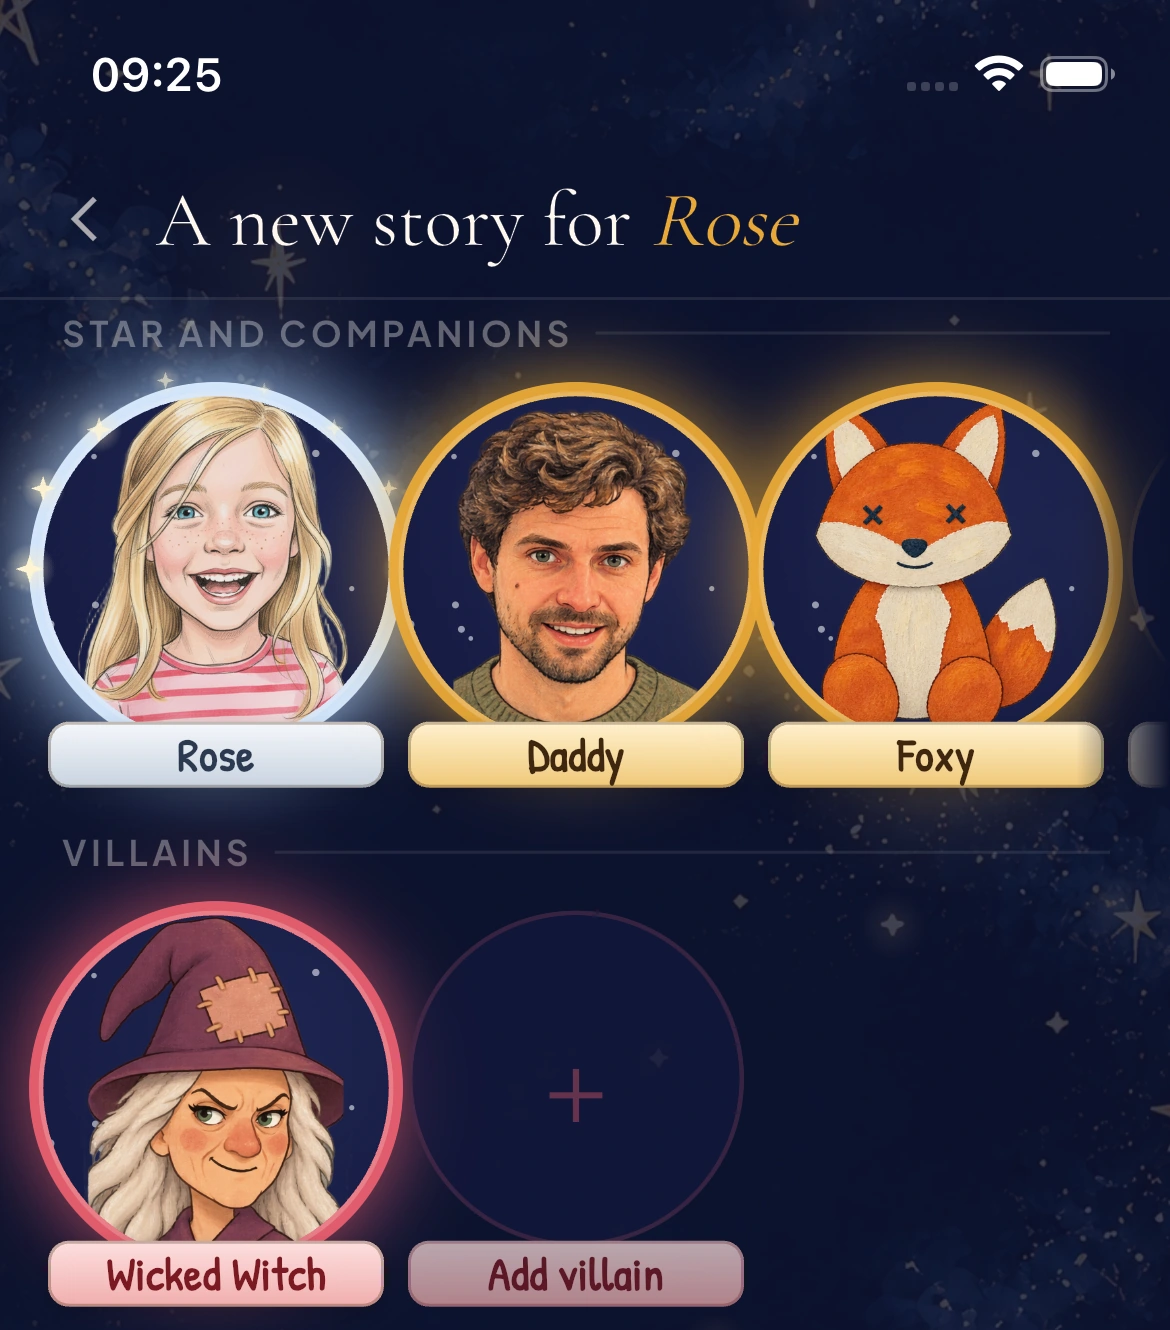
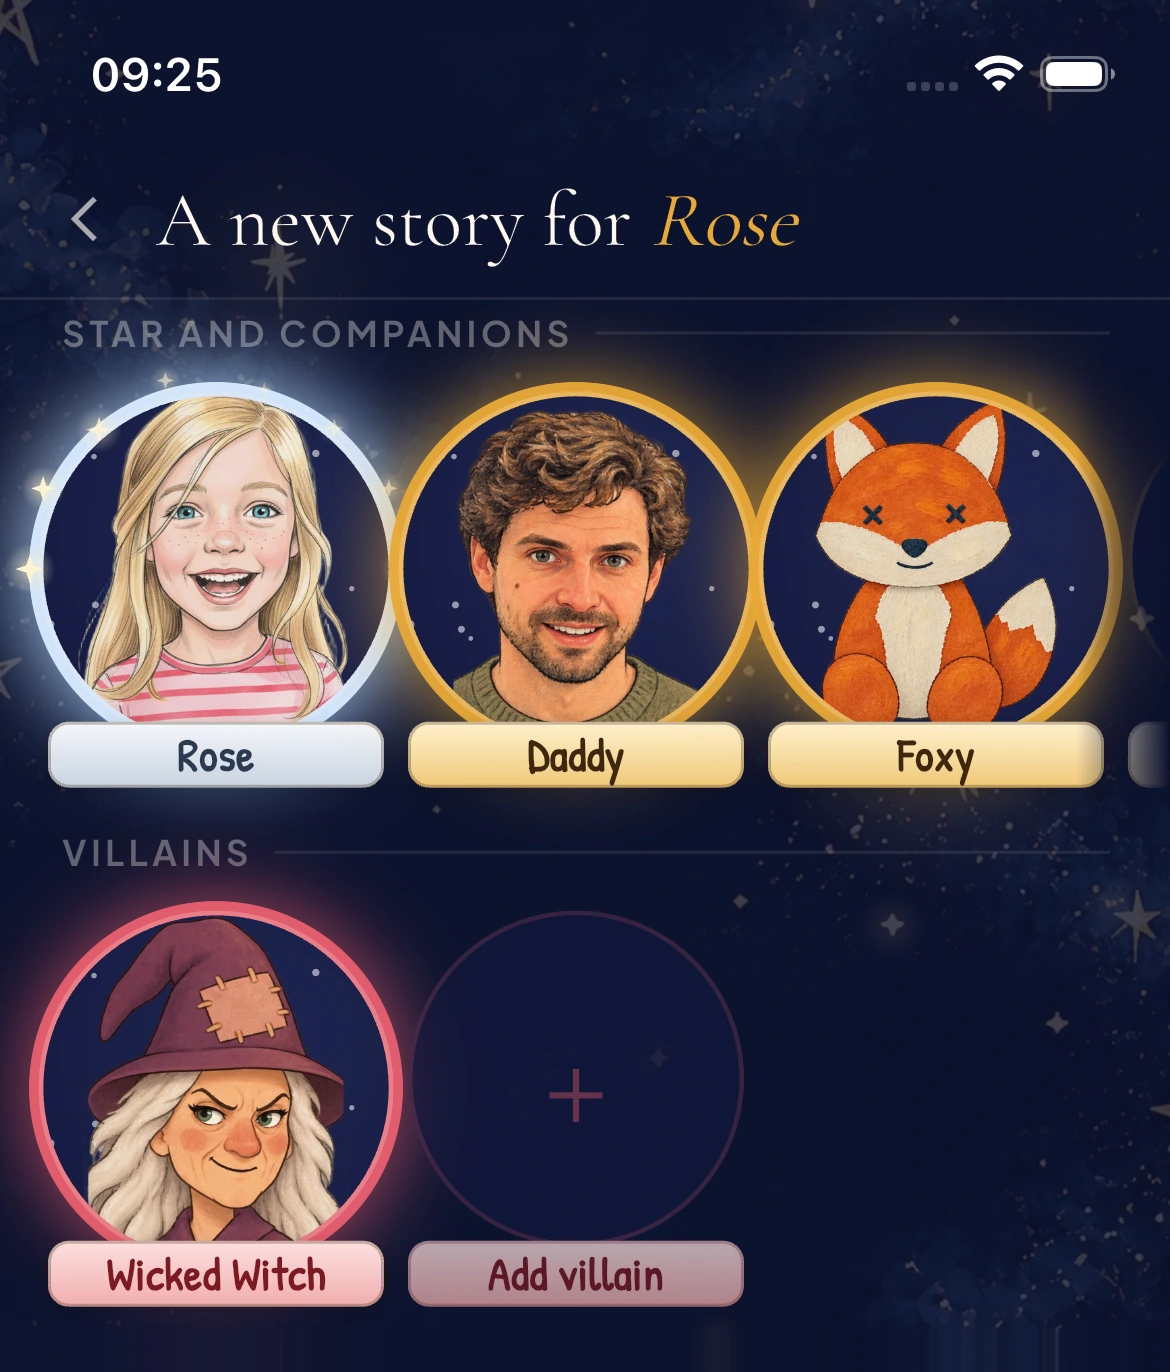
Align V1 phone previews and restore alternating section colours

diff --git a/redesign-2026-11/demo/index.html b/redesign-2026-11/demo/index.html
@@ -337,11 +337,11 @@
   .track strong { font:600 1.3rem/1.12 var(--display); } .track small { font:400 .8rem/1.4 var(--text); color:#6b6558; }
   .track .play { pointer-events:none; padding:.4rem 1rem .4rem .4rem; } .track .play .pi { width:2.3rem; height:2.3rem; } .track .play .pt b { font-size:.86rem; }
   /* 6. the end */
-  .low.end { background:var(--paper) var(--paint) center/cover; color:var(--navy-deep); text-align:center; padding-bottom:2.4rem; }
+  .low.end { color:var(--cream); text-align:center; padding-bottom:2.4rem; }
   .low.end h2 { margin-left:auto; margin-right:auto; } .low.end .lede { color:var(--ink); margin-left:auto; margin-right:auto; }
-  .low.end .cta { background:var(--navy); color:var(--cream); margin-top:2rem; font-size:.95rem; padding:1.2rem 2rem; }
-  .foot { margin-top:clamp(4rem,10vh,6.5rem); padding-top:1.4rem; border-top:1px solid #c8bda5; display:flex; flex-wrap:wrap; justify-content:center; gap:.5rem 1.6rem; font:400 .86rem/1.4 var(--text); color:#585444; }
-  .foot a { color:var(--navy); text-decoration:none; } .foot a:hover { text-decoration:underline; } .foot span { flex-basis:100%; }
+  .low.end .cta { background:var(--cream); color:var(--navy); margin-top:2rem; font-size:.95rem; padding:1.2rem 2rem; }
+  .foot { margin-top:clamp(4rem,10vh,6.5rem); padding-top:1.4rem; border-top:1px solid #c8bda5; display:flex; flex-wrap:wrap; justify-content:center; gap:.5rem 1.6rem; font:400 .86rem/1.4 var(--text); color:#cdc7b9; }
+  .foot a { color:var(--cream); text-decoration:none; } .foot a:hover { text-decoration:underline; } .foot span { flex-basis:100%; }
   @media (max-width:760px) {
     .two { grid-template-columns:1fr; } .cards, .tracks { grid-template-columns:1fr; } .notes, .rules { grid-template-columns:1fr; }
     .slip-wrap { margin:0 .4rem 2.6rem; } .tracks { max-width:19rem; margin-left:auto; margin-right:auto; } .lang-show { grid-template-columns:1fr; } .lang-show img { width:44vw; }
@@ -376,7 +376,7 @@
 
   /* read along: the story's words under the books, the sentence being spoken picked out */
   .readalong { margin-top:clamp(1.6rem,4vh,2.6rem); background:#fdf8ec; box-shadow:0 4px 0 rgba(60,40,20,.2); padding:1.3rem clamp(1.1rem,3vw,2.4rem) 1.6rem; text-align:left; }
-  .readalong .caps { color:var(--tomato); font-size:.7rem; }
+  .low.dark .readalong .caps { color:var(--tomato); font-size:.7rem; }
   .ra-box { position:relative; height:clamp(11rem,34vh,17rem); overflow:hidden; margin-top:.9rem; scroll-behavior:smooth;
             -webkit-mask-image:linear-gradient(transparent 0, #000 12%, #000 90%, transparent 100%); mask-image:linear-gradient(transparent 0, #000 12%, #000 90%, transparent 100%); }
   .ra-box p { font:500 clamp(1.25rem,2.1vw,1.7rem)/1.4 var(--display); color:#3f3d4a; margin:0 0 .9em; text-wrap:pretty; } .ra-box p:first-child { margin-top:3.2rem; } .ra-box p:last-child { margin-bottom:9rem; }
@@ -629,7 +629,7 @@
   .iphone-crop { align-self:start; position:relative; isolation:isolate; margin:0; padding:clamp(5px,.52vw,8px) clamp(5px,.52vw,8px) 0; border:2px solid #797773; border-bottom:0; border-radius:13% 13% 0 0 / 11% 11% 0 0; background:#161615; box-shadow:inset 0 0 0 1px #bbb7b1, inset 0 0 0 3px #393937; overflow:hidden; }
   .iphone-crop img { width:100%; height:auto; border-radius:11.8% 11.8% 0 0 / 9.8% 9.8% 0 0; }
   .iphone-crop::after { content:""; position:absolute; left:50%; top:3.1%; transform:translateX(-50%); width:23%; height:4.8%; border-radius:999px; background:#080808; pointer-events:none; }
-  .phone-caption { font:400 1.03rem/1.47 var(--text); color:#41465e; }
+  .phone-caption { margin-top:.2rem; font:500 clamp(1.15rem,1.6vw,1.35rem)/1.34 var(--text); color:var(--ink); text-wrap:pretty; }
   .make-details { display:inline-block; margin-top:1.75rem; color:var(--navy); text-underline-offset:.2rem; }
   #languages { text-align:center; padding-block:clamp(2.8rem,6vw,5rem); }
   #languages h2 { max-width:26ch; }
@@ -643,7 +643,7 @@
     border-radius:2px 5px 5px 2px; box-shadow:0 6px 12px #090b2490, -1px 0 #efe4cf70;
   }
   #languages .language-gallery figcaption {
-    margin-top:.65rem; color:var(--cream); font:500 clamp(.86rem,1.7vw,1rem)/1.3 var(--text);
+    margin-top:.65rem; color:var(--ink); font:500 clamp(.86rem,1.7vw,1rem)/1.3 var(--text);
   }
   @media (max-width:700px) {
     #languages .language-gallery { grid-template-columns:repeat(3,minmax(0,1fr)); max-width:28rem; row-gap:1.15rem; }
@@ -959,25 +959,25 @@
     <ol class="phone-steps">
       <li class="phone-step">
         <h3>Choose the cast</h3>
-        <div class="iphone-crop"><img src="assets-product/screen-cast.webp" width="1170" height="1330" alt="Cast picker showing Rose, Daddy, Foxy and the Wicked Witch." loading="lazy"></div>
-        <p class="phone-caption">Pick who&rsquo;s in it, from their favourite people to the toys on their pillow.</p>
+        <div class="iphone-crop"><img src="assets-product/screen-cast.webp" width="1170" height="1372" alt="Cast picker showing Rose, Daddy, Foxy and the Wicked Witch." loading="lazy"></div>
+        <p class="phone-caption">Their favourite people and toys can star alongside them.</p>
       </li>
       <li class="phone-step">
         <h3>Choose a mood and an idea</h3>
-        <div class="iphone-crop"><img src="assets-product/screen-idea.webp" width="1170" height="1420" alt="Magical is selected. The idea field describes Rose entering a unicorn in a pony show." loading="lazy"></div>
-        <p class="phone-caption">Set the mood, then add their idea or tap Inspire me.</p>
+        <div class="iphone-crop"><img src="assets-product/screen-idea.webp" width="1170" height="1372" alt="Magical is selected. The idea field describes Rose entering a unicorn in a pony show." loading="lazy"></div>
+        <p class="phone-caption">A unicorn at a pony show? Start with their idea.</p>
       </li>
       <li class="phone-step">
         <h3>Review, edit and approve</h3>
-        <div class="iphone-crop"><img src="assets-product/screen-review.webp" width="1170" height="1242" alt="Story summary with controls to approve Rose’s story, rewrite it or edit the text." loading="lazy"></div>
-        <p class="phone-caption">Change anything you like before your child hears it.</p>
+        <div class="iphone-crop"><img src="assets-product/screen-review.webp" width="1170" height="1372" alt="The illustrated cover of A Sock for the Unicorn Show above the button to approve Rose’s story." loading="lazy"></div>
+        <p class="phone-caption">You get the final say before they listen.</p>
       </li>
     </ol>
     <a class="make-details" href="how-it-works.html">More about how stories are made</a>
   </div>
 </section>
 
-<section class="low center" id="hear"><div class="low-in">
+<section class="low dark center" id="hear"><div class="low-in">
   <h2>Hear more stories</h2>
   <p class="lede">Choose a book to hear a story made with Namesake.</p>
   <div class="tracks" id="tracks">
@@ -992,7 +992,7 @@
   <audio id="audio2" preload="none"></audio>
 </div></section>
 
-<section class="low dark center" id="languages"><div class="low-in">
+<section class="low center" id="languages"><div class="low-in">
   <p class="caps">In six languages</p>
   <h2>Their adventure, in the language they know best.</h2>
   <ul class="language-gallery" role="list">
@@ -1006,7 +1006,7 @@
   <p class="lede">Every story is read aloud in a natural-sounding voice, in the language you choose.</p>
 </div></section>
 
-<section class="low end" id="end"><div class="low-in">
+<section class="low dark end" id="end"><div class="low-in">
   <h2>Make their first story tonight.</h2>
   <a class="cta" href="../../download.html"><span class="beta-full">Download the Namesake app (beta)</span><span class="beta-short">Download the app (beta)</span></a>
   <footer class="foot"><a href="how-it-works.html">How it works</a><a href="../../blog.html">Blog</a><a href="../../faq.html">FAQ</a><a href="../../privacy.html">Privacy</a><a href="../../terms.html">Terms</a><a href="../../delete-account.html">Delete account</a><span>&copy; 2026 Namesake &middot; Amsterdam</span></footer>
